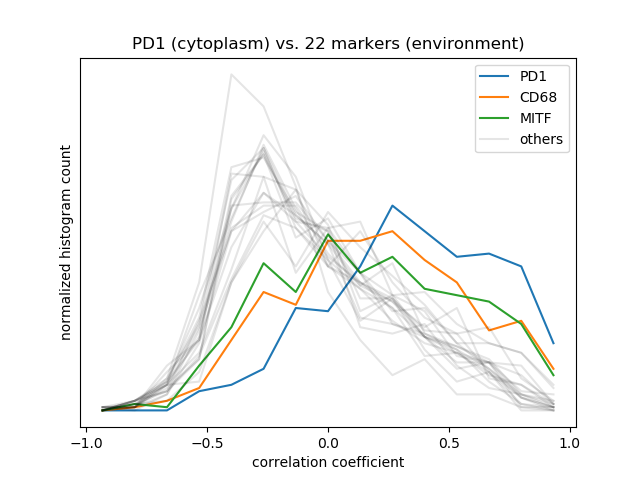
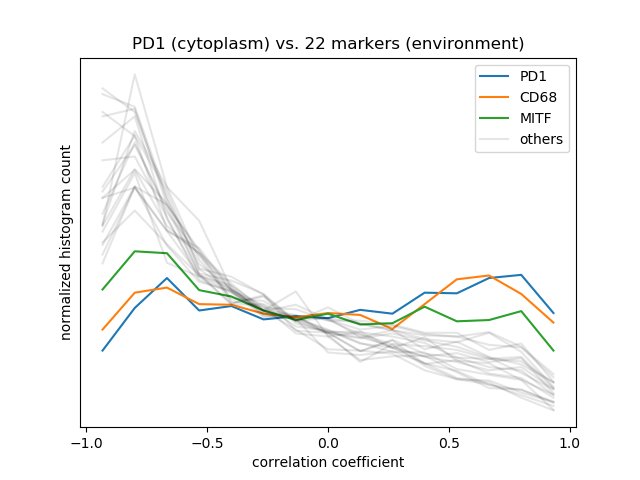
backup, need revamp for massive parallelization

diff --git a/code/demo_correlation.py b/code/demo_correlation.py
@@ -6,16 +6,19 @@ import pandas as pd
 if __name__ == '__main__':
     # paths
     data_folderpath = os.path.expanduser('~/polar_data')
-    target_filepath = os.path.join(data_folderpath, 'pd1_angular_alignment.csv')
-    tdist_filepath = os.path.join(data_folderpath, 'angular_distribution.csv')
+#    target_filepath = os.path.join(data_folderpath, 'pd1_angular_alignment.csv')
+    tdist_filepath = os.path.join(data_folderpath, 'angular_distribution_30x30.csv')
     output_filepath = os.path.join(data_folderpath, 'pd1_env_corrcoef.csv')
     
     # load data
-    target_df = pd.read_csv(target_filepath)
-    target_df = target_df[['cellid']]
+#    target_df = pd.read_csv(target_filepath)
+#    target_df = target_df[['cellid']]
     tdist_df = pd.read_csv(tdist_filepath)
+    has_cyto = tdist_df.loc[tdist_df['label'] == 'cytoplasm', ['cellid']]
+    has_env = tdist_df.loc[tdist_df['label'] == 'environment', ['cellid']]
+    target_df = has_cyto.merge(has_env, on='cellid', how='inner')
     tdist_df = tdist_df.merge(target_df, on='cellid', how='inner')
-    
+
     # pd1 in cytoplasm as one arm
     pd1_col = [c for c in tdist_df.columns if '_ch19_' in c]
     pd1_mask = tdist_df['label'] == 'cytoplasm'
@@ -28,7 +31,7 @@ if __name__ == '__main__':
     env_mask = tdist_df['label'] == 'environment'
     int_col = [c for c in tdist_df.columns if c.startswith('intensity')]
     env_cellid = tdist_df.loc[env_mask, 'cellid'].tolist()
-    
+
     mapping = {c:int(c.split('_')[1][2:]) for c in int_col}
     gb = tdist_df.loc[env_mask, int_col]\
         .groupby(mapping, axis=1)
@@ -42,7 +45,7 @@ if __name__ == '__main__':
         df_list.append(g)
         
     env_df = pd.concat(df_list, axis=0)
-    
+
     # calculate correlation coefficient
     def corr_fn(row):
         cellid = row.values[-2]
@@ -51,16 +54,16 @@ if __name__ == '__main__':
         env_mask = np.isfinite(env_intensity)
         pd1_mask = np.isfinite(pd1_intensity)
         mask = env_mask & pd1_mask
-        if mask.sum() < 3:
-            return float('nan')
-        else:
+        if mask.all():
             cc = np.corrcoef(pd1_intensity[mask], env_intensity[mask])
             return cc[0, 1]
+        else:
+            return float('nan')
     
     env_df['corrcoef'] = env_df.apply(corr_fn, axis=1)
     cc_df = env_df[['cellid', 'channel', 'corrcoef']].copy()
     cc_df['channel'] = cc_df['channel'].apply(lambda x: 'channel_{:.0f}'.format(x))
     cc_df = cc_df.pivot(index='cellid', columns='channel', values='corrcoef')
-    
+
     # save file
     cc_df.to_csv(output_filepath)

diff --git a/code/exemplar_correlation.py b/code/exemplar_correlation.py
@@ -27,7 +27,7 @@ if __name__ == '__main__':
     cell_mask_filepath = os.path.join(data_folderpath, 'data', 'cell_mask.tif')
     
     # params
-    tile_shape = (15, 15)
+    tile_shape = (30, 30)
     
     # load data
     cc_df = pd.read_csv(cc_filepath)
@@ -54,7 +54,11 @@ if __name__ == '__main__':
     cc_df.sort_values('channel_{}'.format(index_cd68), ascending=False,
                       inplace=True)
     cc_df.reset_index(drop=True, inplace=True)
-    for cellid in cc_df['cellid'].tolist():
+
+    for index in cc_df.index:
+        print(cc_df.loc[index])
+        cellid, corrcoef = cc_df.loc[index,
+                ['cellid', 'channel_{}'.format(index_cd68)]]
         # calculate tile coords
         cell_centroid = nuclei_region_dict[cellid].centroid
         txl = int(np.round(cell_centroid[0]-tile_shape[0]/2))
@@ -77,7 +81,7 @@ if __name__ == '__main__':
         
         # plot
         fig, axes = plt.subplots(ncols=2, nrows=1, sharex=True, sharey=True,
-                                 figsize=(10, 5))
+                                 figsize=(6, 3))
         axes[0].imshow(rgb_image)
         axes[0].set_title('RGB=(CD68, PD1, DNA1)')
         axes[1].imshow(cell_label, cmap='tab10')
@@ -87,6 +91,6 @@ if __name__ == '__main__':
             ax.set_xticks([])
             ax.set_yticks([])
             
-        fig.suptitle('cell ID: {}'.format(cellid))
+        fig.suptitle('cell ID: {}, corrcoef: {:.2e}'.format(cellid, corrcoef))
         fig.tight_layout(rect=[0, 0, 1, 0.9])
         plt.show()

diff --git a/code/polartk.py b/code/polartk.py
@@ -3,7 +3,7 @@ import typing
 import numpy as np
 
 from scipy.ndimage import morphology
-from sklearn import neighbors
+from sklearn import neighbors, preprocessing
 from scipy import stats
 
 def polar_dist(
@@ -77,6 +77,9 @@ def xy2rt(
         }
     if params['distance'] == 'polar':
         params['distance'] = polar_dist
+    elif params['distance'] == 'euclidean':
+        # Euclidean distance requires scaling
+        scale_model = preprocessing.MinMaxScaler()
 
     # pad to remove boundary conditions
     image_pad = np.pad(image, pad_width=params['pw'], mode='constant',
@@ -111,6 +114,9 @@ def xy2rt(
     
     # approximate with KNN
     rt = np.stack([r.flatten(), t.flatten()], axis=-1)
+    if params['distance'] == 'euclidean':
+        scale_model.fit(rt)
+        rt = scale_model.transform(rt)
     intensity_model = neighbors.KNeighborsRegressor(metric=params['distance'],
         n_neighbors=params['n_neighbors'])
     intensity_model.fit(rt, image_pad.flatten())
@@ -130,6 +136,8 @@ def xy2rt(
     
     # predict region and intensity
     rt_grid = np.stack([r_grid.flatten(), t_grid.flatten()], axis=-1)
+    if params['distance'] == 'euclidean':
+        rt_grid = scale_model.transform(rt_grid)
     image_rt = intensity_model.predict(rt_grid).reshape(shape)
     if label is not None:
         label_rt = label_model.predict(rt_grid).reshape(shape)

diff --git a/code/visualize_transform.py b/code/visualize_transform.py
@@ -40,7 +40,7 @@ if __name__ == '__main__':
     image_filepath = os.path.expanduser('~/polar_data/data/image.ome.tif')
     
     # params
-    tile_shape = (15, 15)
+    tile_shape = (30, 30)
     
     # load data
     nuclei_mask = io.imread(nuclei_mask_filepath)
@@ -67,6 +67,8 @@ if __name__ == '__main__':
     # random sampling of cells
     all_label = list(region_dict.keys())
     np.random.shuffle(all_label)
+
+    all_label = [7541]
 
     for i in all_label:
         # unpack
@@ -146,5 +148,5 @@ if __name__ == '__main__':
                 loc='upper right')
 
         fig.suptitle('cell ID: {}'.format(i), y=0.98, x=0.15, ha='left')
-        fig.tight_layout(rect=[0, 0, 1, 0.95])
+        fig.tight_layout(rect=[0, 0, 1, 0.9])
         plt.show()

diff --git a/code/run_transform.py b/code/run_transform.py
@@ -99,12 +99,12 @@ def process_job(job):
 
 if __name__ == '__main__':
     # params
-    tile_shape = (15, 15)
+    tile_shape = (30, 30)
     image_filepath = os.path.expanduser('~/polar_data/data/image.ome.tif')
     nuclei_mask_filepath = os.path.expanduser('~/polar_data/data/nuclei_mask.tif')
     cell_mask_filepath = os.path.expanduser('~/polar_data/data/cell_mask.tif')
     output_header = ['cellid', 'r', 'theta', 'label', 'intensity']
-    output_folderpath = os.path.expanduser('~/polar_data/transformed_result_dd')
+    output_folderpath = os.path.expanduser('~/polar_data/transformed_result_30x30')
     
     # prepare output folder
     if os.path.isdir(output_folderpath):

diff --git a/code/compile_tdist.py b/code/compile_tdist.py
@@ -8,8 +8,10 @@ import tqdm
 
 if __name__ == '__main__':
     # paths
-    data_filepattern = os.path.expanduser('~/polar_data/transformed_result/channel_*.csv')
-    output_filepath = os.path.expanduser('~/polar_data/angular_distribution.csv')
+    data_folderpath = os.path.expanduser('~/polar_data')
+    data_filepattern = os.path.join(data_folderpath, 'transformed_result_30x30',
+            'channel_*.csv')
+    output_filepath = os.path.join(data_folderpath, 'angular_distribution_30x30.csv')
     
     # params
     label_dict = {0: 'environment', 1: 'cytoplasm', 2: 'nucleus'}
